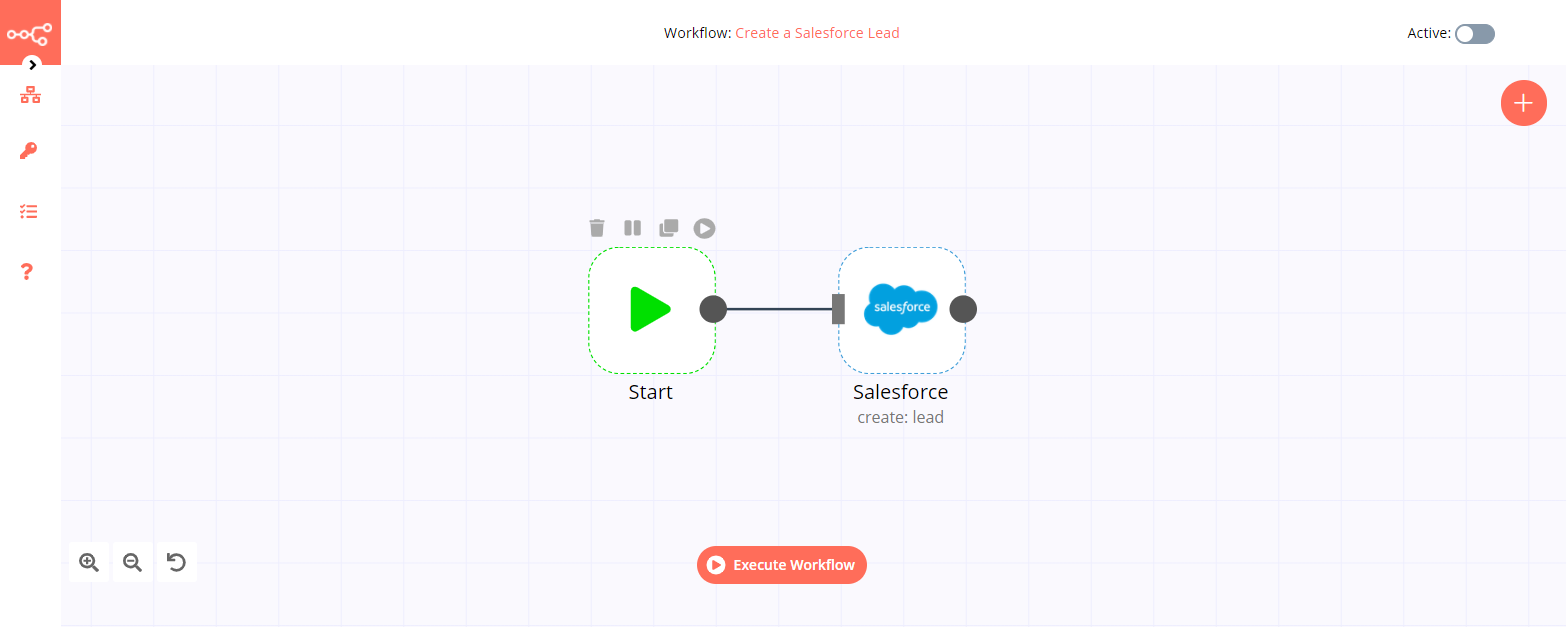
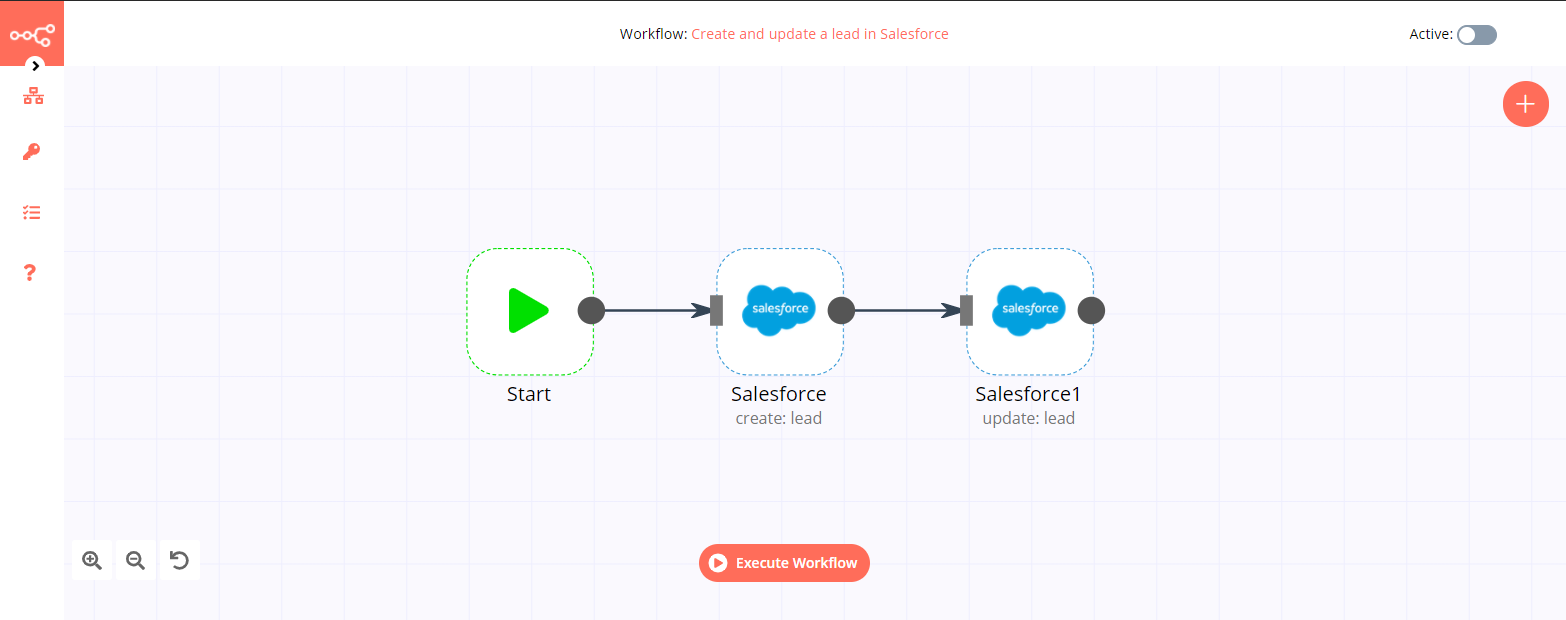
:zap: Update Salesforce node docs

diff --git a/docs/nodes/nodes-library/nodes/Salesforce/README.md b/docs/nodes/nodes-library/nodes/Salesforce/README.md
@@ -75,7 +75,7 @@ You can find authentication information for this node [here](../../../credential
 
 ## Example Usage
 
-This workflow allows you to create a new lead in Salesforce. You can also find the [workflow](https://n8n.io/workflows/664) on the website. This example usage workflow would use the following two nodes.
+This workflow allows you to create and update a lead on Salesforce. You can also find the [workflow](https://n8n.io/workflows/664) on n8n.io. This example usage workflow would use the following nodes.
 - [Start](../../core-nodes/Start/README.md)
 - [Salesforce]()
 
@@ -87,9 +87,24 @@ The final workflow should look like the following image.
 
 The start node exists by default when you create a new workflow.
 
-### 2. Salesforce node
+### 2. Salesforce node (create: lead)
 
 1. First of all, you'll have to enter credentials for the Salesforce node. You can find out how to do that [here](../../../credentials/Salesforce/README.md).
 2. Enter the name of the company in the ***Company*** field.
 3. Enter the last name of the contact person in the ***Last Name*** field.
 4. Click on ***Execute Node*** to run the workflow.
+
+![A workflow with the Salesforce node](./Salesforce_node.png)
+
+### 3. Salesforce1 node (update: lead)
+
+1. Select the credentials that you entered in the previous node.
+2. Select 'Update' from the Operation dropdown list.
+3. Click on the gears icon next to the 'Lead ID' field and click on Add Expression.
+4. Select the following in the Variable Selector section: Nodes > Salesforce > Output Data > JSON > id.  
+You can also add the following expression: `{{$node["Salesforce"].json["id"]}}`
+5. Click on the ***Add Field*** button and click on ***Status***.
+6. Choose a status from the ***Status*** dropdown list.
+7. Click on ***Execute Node*** to run the node.
+
+![A workflow with the Salesforce node](./Salesforce1_node.png)
